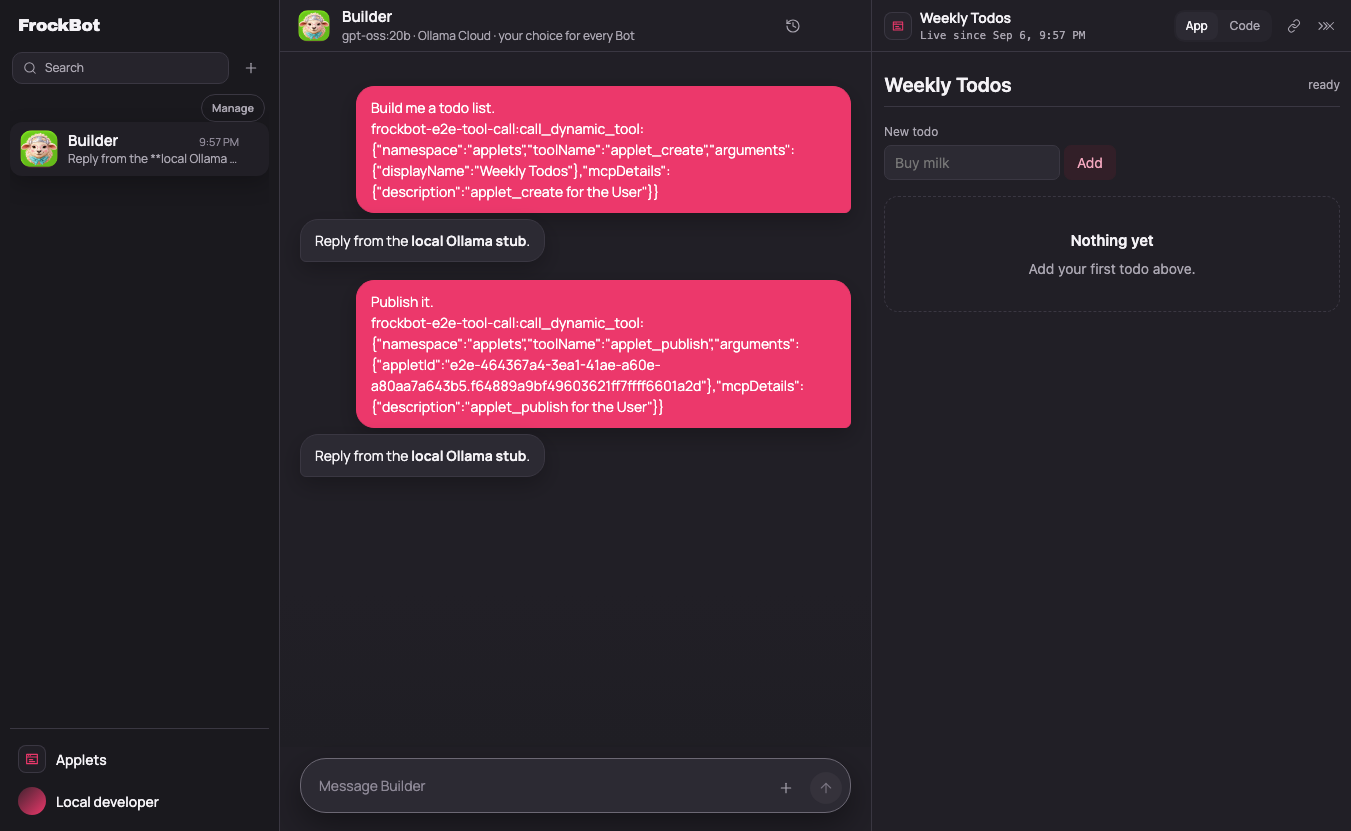
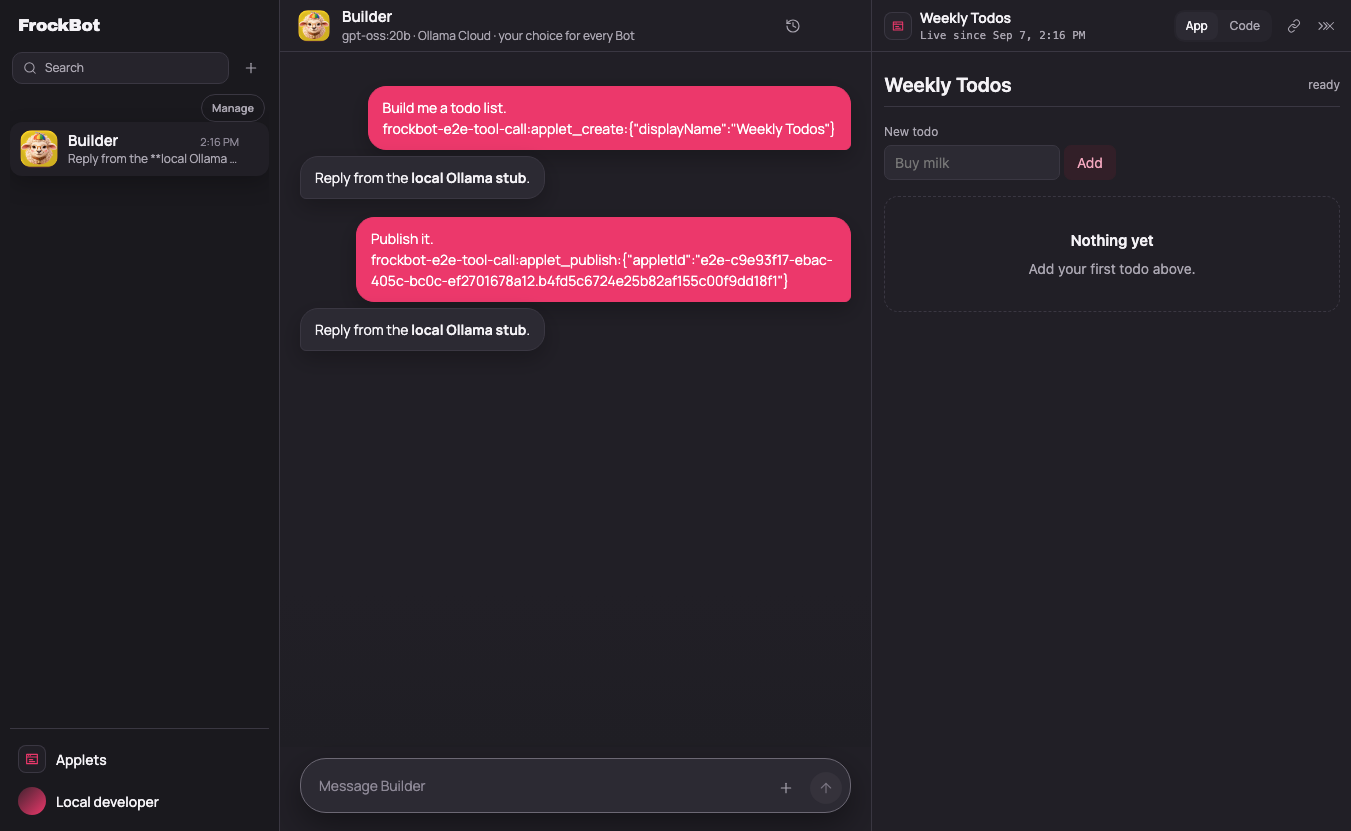
Call the Applets tools by name in the browser specs
The scripted model reached them through call_dynamic_tool under the
applets namespace, the disclosure an isolate member got. They are
first-party registrations now.

Changed region(s): [[0.2176, 0.0903, 0.6528, 0.5716], [0.0, 0.1504, 0.0622, 0.2106], [0.2176, 0.0, 0.2487, 0.0602]]

diff --git a/apps/cloudflare/e2e/applets-publish.e2e.ts b/apps/cloudflare/e2e/applets-publish.e2e.ts
@@ -126,18 +126,9 @@ async function runTool(
   name: string,
   input: unknown = {},
 ): Promise<void> {
-  // The Applets member is isolate-loaded, so its tools are disclosed under
-  // the `applets` namespace and a model reaches them only through
-  // `call_dynamic_tool`; the scripted model does exactly that.
-  await sendMessage(
-    page,
-    `${text}\n${e2eToolCallPrompt("call_dynamic_tool", {
-      namespace: "applets",
-      toolName: name,
-      arguments: input,
-      mcpDetails: { description: `${name} for the User` },
-    })}`,
-  );
+  // The Applets tools are first-party registrations, so the scripted model
+  // calls them by name.
+  await sendMessage(page, `${text}\n${e2eToolCallPrompt(name, input)}`);
 }
 
 async function appletIdNamed(page: Page, displayName: string): Promise<string> {

diff --git a/apps/cloudflare/e2e/applets.e2e.ts b/apps/cloudflare/e2e/applets.e2e.ts
@@ -45,18 +45,9 @@ async function runTool(
   name: string,
   input: unknown = {},
 ): Promise<void> {
-  // The Applets member is isolate-loaded, so its tools are disclosed under
-  // the `applets` namespace and a model reaches them only through
-  // `call_dynamic_tool`; the scripted model does exactly that.
-  await sendMessage(
-    page,
-    `${text}\n${e2eToolCallPrompt("call_dynamic_tool", {
-      namespace: "applets",
-      toolName: name,
-      arguments: input,
-      mcpDetails: { description: `${name} for the User` },
-    })}`,
-  );
+  // The Applets tools are first-party registrations, so the scripted model
+  // calls them by name.
+  await sendMessage(page, `${text}\n${e2eToolCallPrompt(name, input)}`);
   await page.reload();
 }
 
